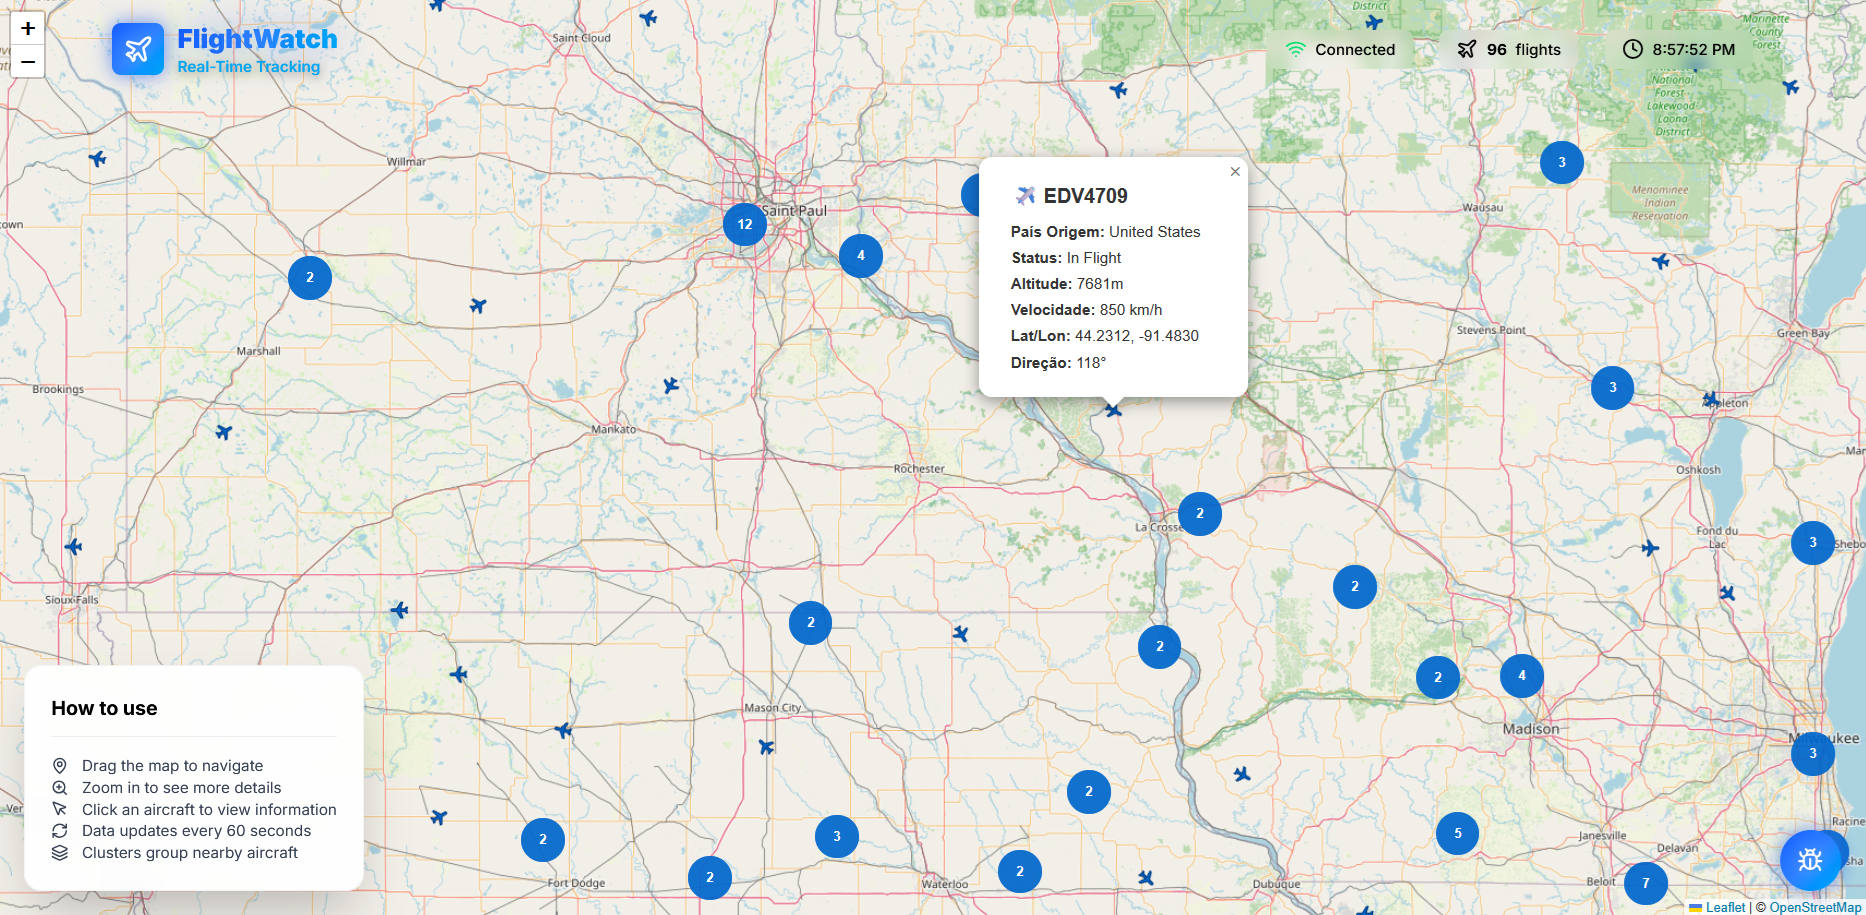
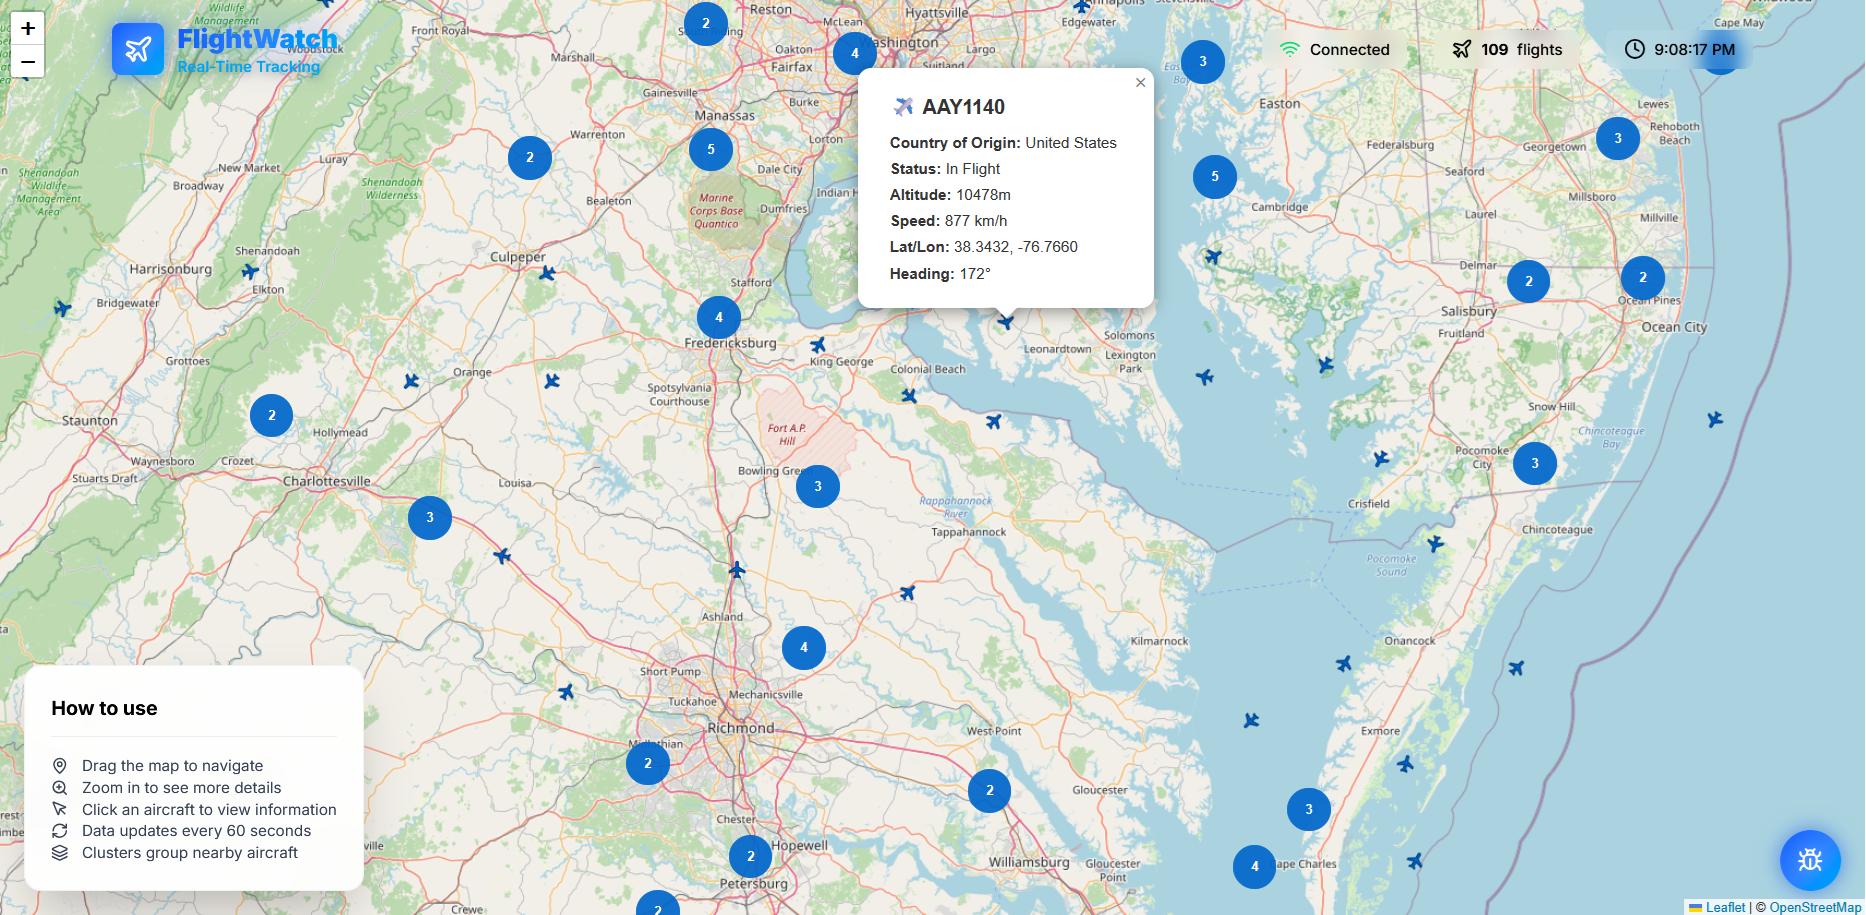
Enhance README.md with flight tracking limitations disclaimer and update FlightMap component for English localization. Update system preview image to reflect recent design changes.

diff --git a/frontend/src/components/map/FlightMap.tsx b/frontend/src/components/map/FlightMap.tsx
@@ -125,20 +125,20 @@ const FlightMarker = memo(({ flight, onClick }: { flight: FlightDto; onClick?: (
             ✈ {flight.flightNumber}
           </div>
           <div className="space-y-1 text-sm">
-            <div><strong>País Origem:</strong> {flight.airline}</div>
+            <div><strong>Country of Origin:</strong> {flight.airline}</div>
             <div><strong>Status:</strong> {translateFlightStatus(flight.flightStatus)}</div>
             {flight.categoryDescription && (
-              <div><strong>Tipo:</strong> {flight.categoryDescription}</div>
+              <div><strong>Type:</strong> {flight.categoryDescription}</div>
             )}
             {flight.altitude && (
               <div><strong>Altitude:</strong> {Math.round(flight.altitude)}m</div>
             )}
             {flight.velocity && (
-              <div><strong>Velocidade:</strong> {Math.round(flight.velocity * 3.6)} km/h</div>
+              <div><strong>Speed:</strong> {Math.round(flight.velocity * 3.6)} km/h</div>
             )}
             <div><strong>Lat/Lon:</strong> {flight.latitude.toFixed(4)}, {flight.longitude.toFixed(4)}</div>
             {flight.direction && (
-              <div><strong>Direção:</strong> {Math.round(flight.direction)}°</div>
+              <div><strong>Heading:</strong> {Math.round(flight.direction)}°</div>
             )}
           </div>
         </div>
@@ -179,7 +179,7 @@ export const FlightMap = memo(({ flights, onBoundsChange, onFlightClick, center 
   if (!isMounted) {
     return (
       <div className="w-full h-full flex items-center justify-center bg-aviation-cloud">
-        <div className="text-aviation-blue-dark text-xl">Carregando mapa...</div>
+        <div className="text-aviation-blue-dark text-xl">Loading map...</div>
       </div>
     );
   }

diff --git a/README.md b/README.md
@@ -401,6 +401,17 @@ docker-compose down
 7. **Observer Pattern** - Event-driven communication
 8. **Strategy Pattern** - Configurable resilience policies
 
+## ⚠ Disclaimer – Flight Tracking Limitations
+
+FlightWatch retrieves all aircraft data from the **OpenSky Network API**, which relies primarily on **ADS-B receivers** and, in some regions, **MLAT (Multilateration)**. Because of this, the data shown in the system is subject to the following limitations:
+
+- **Coverage is not globally uniform** — remote areas, regions with few receivers, and certain countries may have partial or no visibility.
+- **Data accuracy and update frequency vary** depending on receiver availability and signal quality.
+- **Not all aircraft are trackable** — some disable their transponder, operate in restricted modes, or are not ADS-B equipped.
+- **Delays, gaps, or missing data** may occur due to network limitations, atmospheric conditions, or operator privacy constraints.
+
+FlightWatch displays flight information **exactly as provided by the OpenSky Network**, without guarantees of completeness, accuracy, or real-time precision.
+
 ## 📈 Scalability Considerations
 
 - **Horizontal Scaling**: Stateless API allows multiple instances
